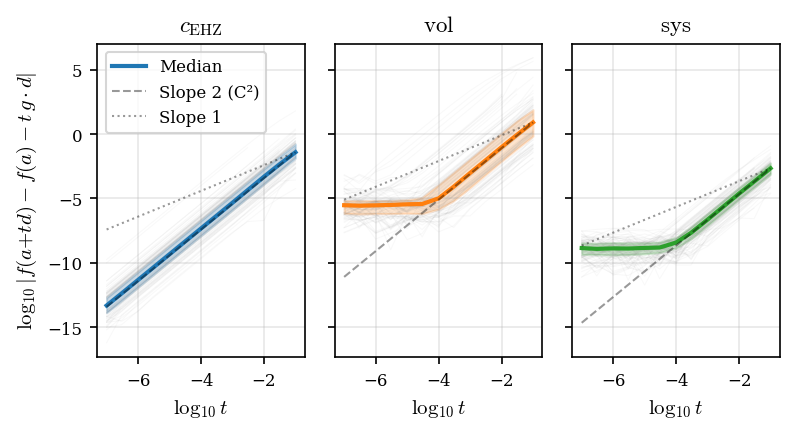
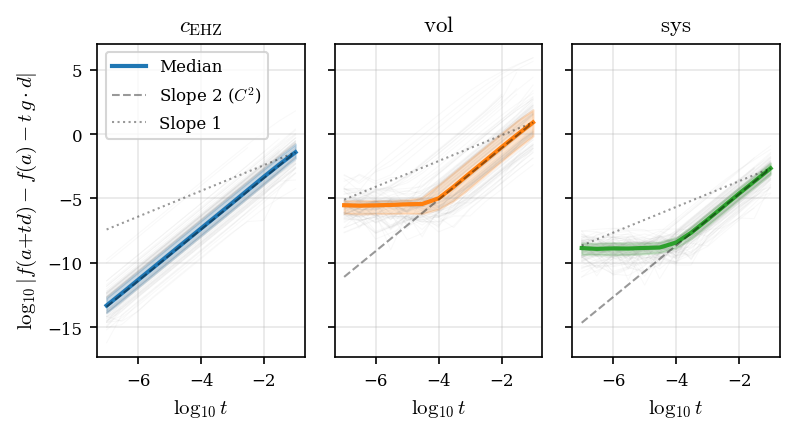
Fix Unicode superscript in plot label (use LaTeX math mode)

Changed region(s): [[0.1208, 0.1198, 0.3623, 0.3295]]

diff --git a/experiments/gradient-correctness/analyze.py b/experiments/gradient-correctness/analyze.py
@@ -160,7 +160,7 @@ def plot_convergence(data, filename="gc_convergence.png"):
             y0 = median_r[-1]  # median residual there
             ref_x = np.array(t_sorted)
             ax.plot(ref_x, y0 + 2 * (ref_x - x0), "k--", alpha=0.4,
-                    linewidth=1, label="Slope 2 (C²)")
+                    linewidth=1, label=r"Slope 2 ($C^2$)")
             ax.plot(ref_x, y0 + 1 * (ref_x - x0), "k:", alpha=0.4,
                     linewidth=1, label="Slope 1")
 
